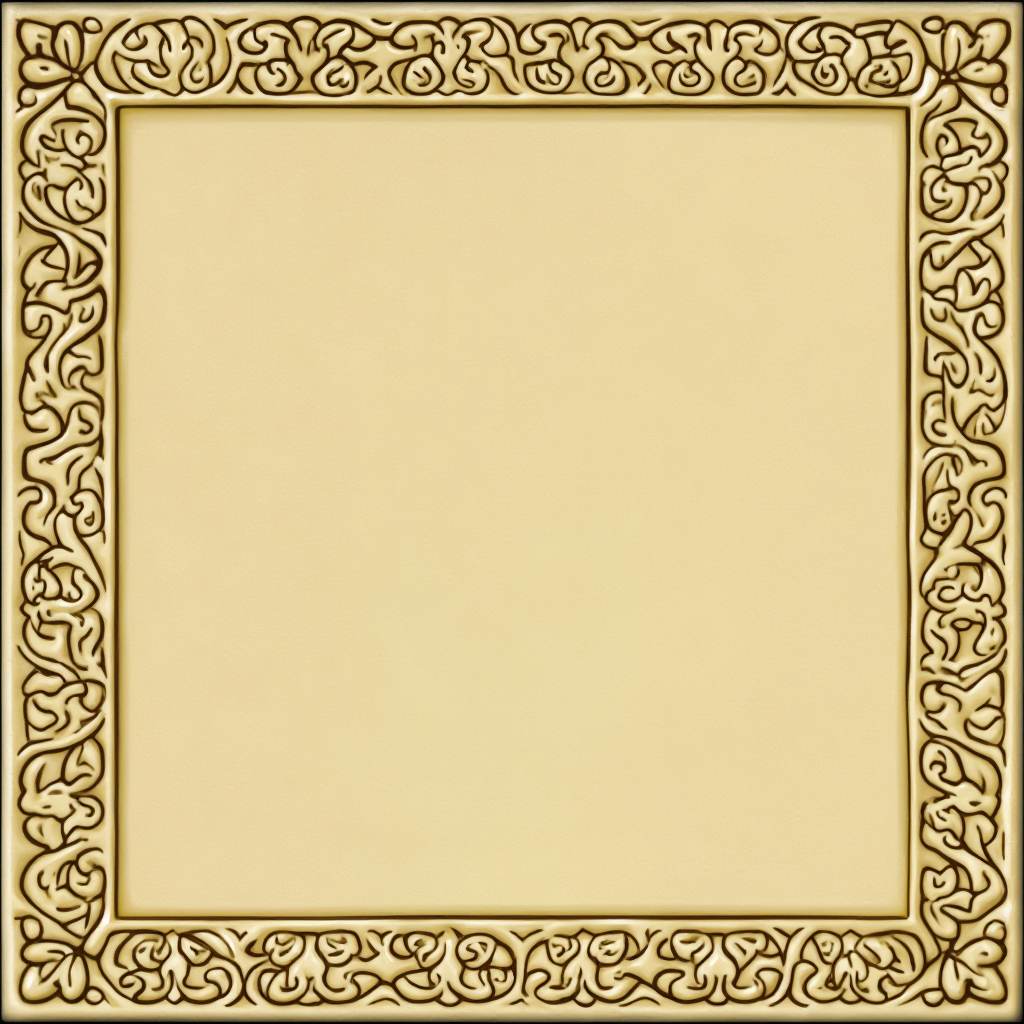
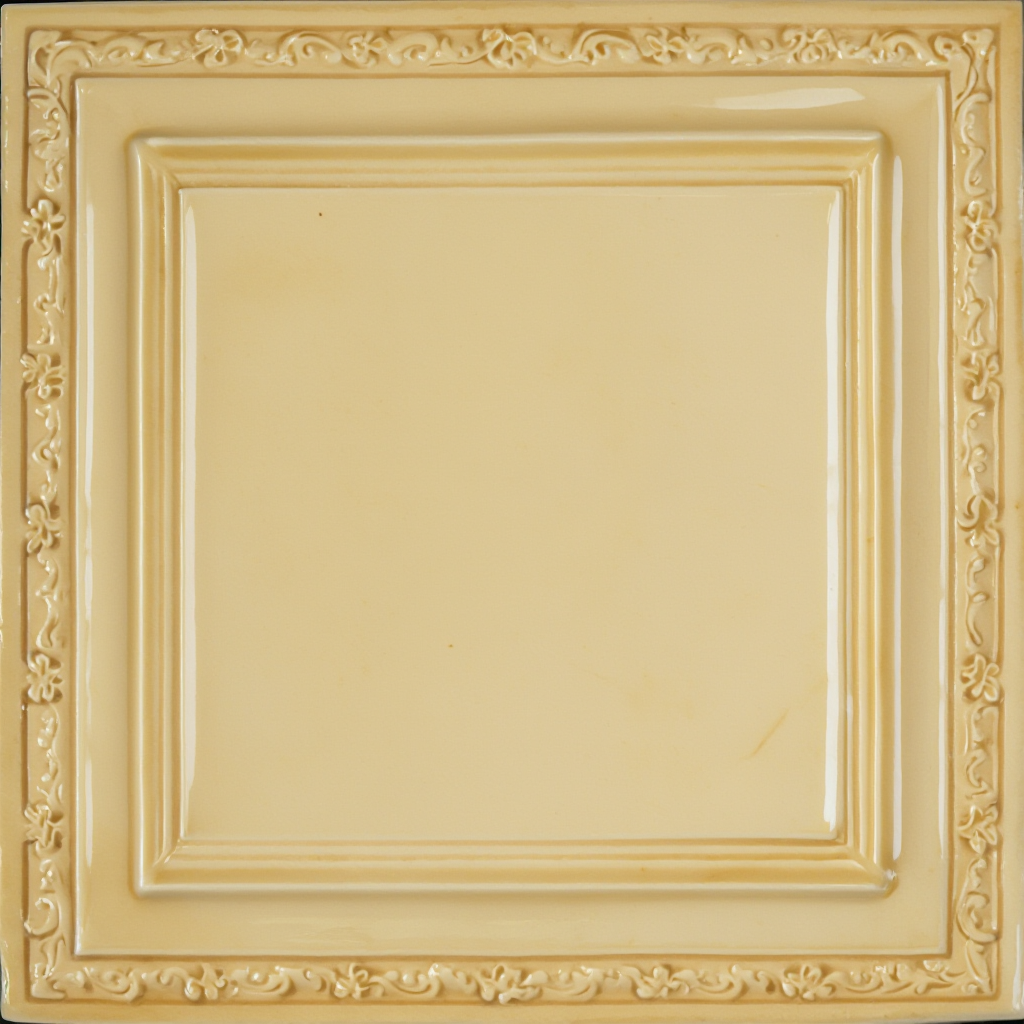
chore(words/client): swap ivory tile to lower-detail border
The previous tile-cream.png had a dense filigree that didn't survive
shrinking to tile size. Use a quieter floral border with a beveled
recessed center instead. Bump ?v=3 → ?v=4 to bust caches.

diff --git a/plugins/words/client/themes.js b/plugins/words/client/themes.js
@@ -6,7 +6,7 @@
 // re-renders.
 
 const THEMES = {
-  ivory:  { textures: ['assets/tile-cream.png?v=3'] },
+  ivory:  { textures: ['assets/tile-cream.png?v=4'] },
   marble: { textures: [
     'assets/marble-1.png?v=2','assets/marble-2.png?v=2','assets/marble-3.png?v=2',
     'assets/marble-4.png?v=2','assets/marble-5.png?v=2','assets/marble-6.png?v=2',

diff --git a/plugins/words/client/style.css b/plugins/words/client/style.css
@@ -40,7 +40,7 @@
   --valid: #2f7a4a;
   --gold: #c8932e;
 
-  --tile-texture: url('assets/tile-cream.png?v=3');
+  --tile-texture: url('assets/tile-cream.png?v=4');
 }
 
 * { box-sizing: border-box; }
